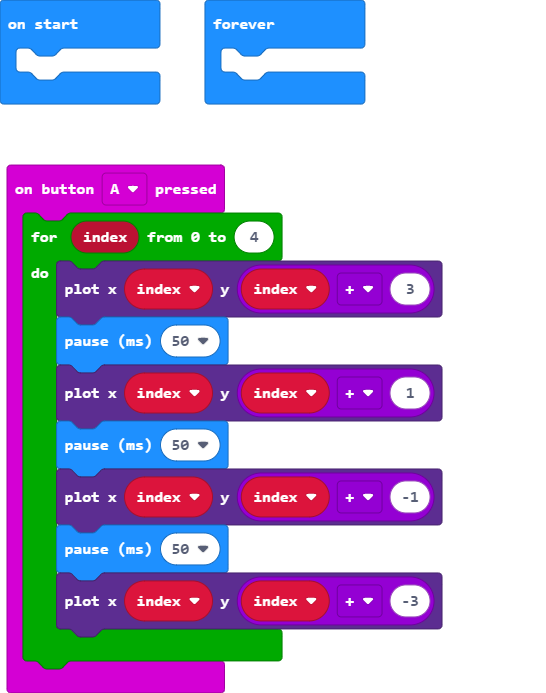
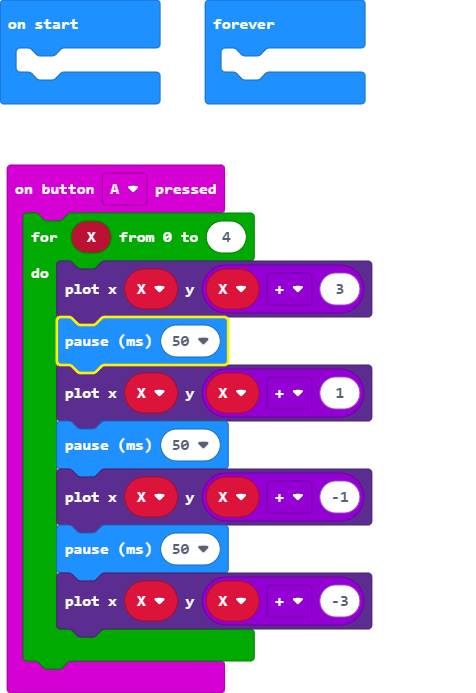
Update main.blocks, main.ts

diff --git a/main.ts b/main.ts
@@ -1,12 +1,12 @@
 input.onButtonPressed(Button.A, function () {
-    for (let index = 0; index <= 4; index++) {
-        led.plot(index, index + 3)
+    for (let X = 0; X <= 4; X++) {
+        led.plot(X, X + 3)
         basic.pause(50)
-        led.plot(index, index + 1)
+        led.plot(X, X + 1)
         basic.pause(50)
-        led.plot(index, index + -1)
+        led.plot(X, X + -1)
         basic.pause(50)
-        led.plot(index, index + -3)
+        led.plot(X, X + -3)
     }
 })
 basic.forever(function () {
